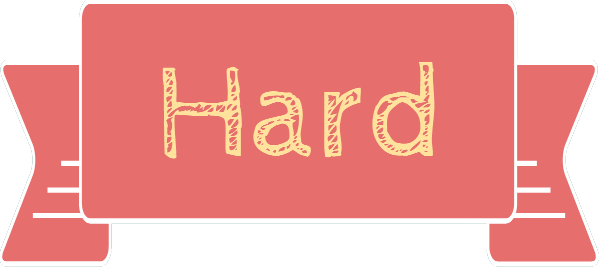
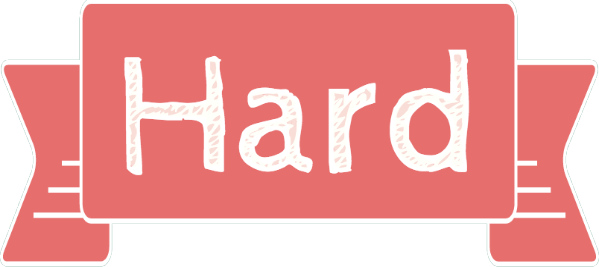
Easy/Hard Mode updated

diff --git a/home.html b/home.html
@@ -128,14 +128,8 @@
                              <figure class="cap-bot">   
                                 <img ng-src="{{ sport.coverImg }}" class="img-responsive" alt="" width="100%" class="img-responsive"/></a>      
                                 <figcaption>
-<<<<<<< Updated upstream
-                                    <a class="ghost-button" href="working_panel.html">Easy mode</a>
-                                    <a class="ghost-button" href="working_panel.html" >Hard mode</a>
-=======
-                                  <!--Add images into the hovering photo <img src="images/test.png" class="img-responsive />-->
-                                    <a class="ghost-button" href="#">Easy mode</a>
-                                    <a class="ghost-button" href="#" >Hard mode</a>
->>>>>>> Stashed changes
+                                    <a class="ghost-button" href="working_panel.html"><img src="images/Easy.png" class="img-responsive" /></a>
+                                    <a class="ghost-button" href="working_panel.html"><img src="images/Hard.png" class="img-responsive" /></a>
                                 </figcaption>
                             </figure>
                           </div>
@@ -152,8 +146,8 @@
                              <figure class="cap-bot">   
                                 <img ng-src="{{ art.coverImg }}" class="img-responsive" alt="" width="100%" class="img-responsive"/></a>      
                                 <figcaption>
-                                    <a class="ghost-button" href="working_panel.html">Easy mode</a>
-                                    <a class="ghost-button" href="working_panel.html" >Hard mode</a>
+                                    <a class="ghost-button" href="working_panel.html"><img src="images/Easy.png" class="img-responsive" /></a>
+                                    <a class="ghost-button" href="working_panel.html"><img src="images/Hard.png" class="img-responsive" /></a>
                                 </figcaption>
                             </figure>
                           </div>
@@ -170,8 +164,8 @@
                             <figure class="cap-bot">    
                                 <img ng-src="{{ edu.coverImg }}" class="img-responsive" alt="" width="100%" class="img-responsive"/></a>      
                                 <figcaption>
-                                    <a class="ghost-button" href="working_panel.html">Easy mode</a>
-                                    <a class="ghost-button" href="working_panel.html" >Hard mode</a>
+                                    <a class="ghost-button" href="working_panel.html"><img src="images/Easy.png" class="img-responsive" /></a>
+                                    <a class="ghost-button" href="working_panel.html"><img src="images/Hard.png" class="img-responsive" /></a>
                                 </figcaption>
                             </figure>
                           </div>
@@ -189,8 +183,8 @@
                                 
                                 <img ng-src="{{ gov.coverImg }}" class="img-responsive" alt="" width="100%" class="img-responsive"/></a>      
                                 <figcaption>
-                                    <a class="ghost-button" href="working_panel.html">Easy mode</a>
-                                    <a class="ghost-button" href="working_panel.html" >Hard mode</a>
+                                    <a class="ghost-button" href="working_panel.html"><img src="images/Easy.png" class="img-responsive" /></a>
+                                    <a class="ghost-button" href="working_panel.html"><img src="images/Hard.png" class="img-responsive" /></a>
                                 </figcaption>
                             </figure>
                           </div>
